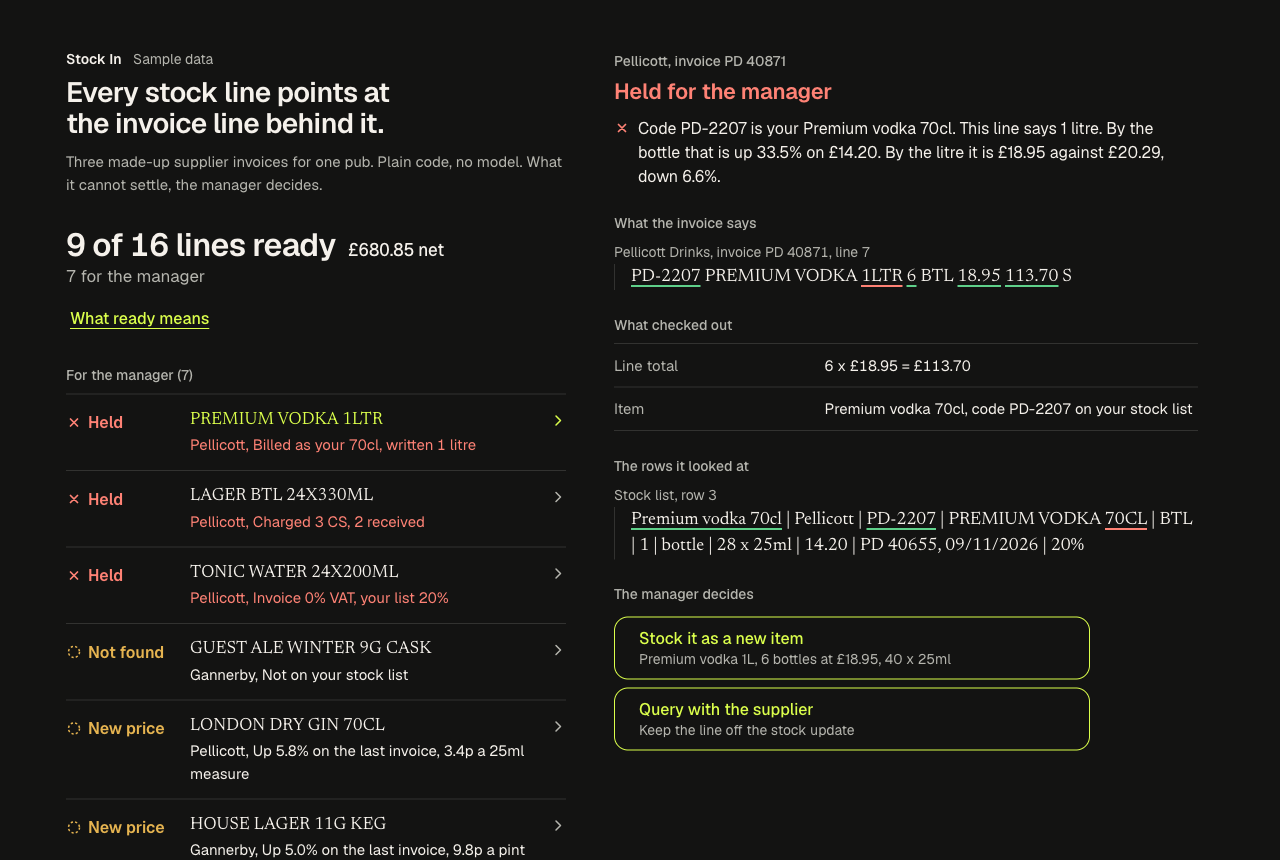
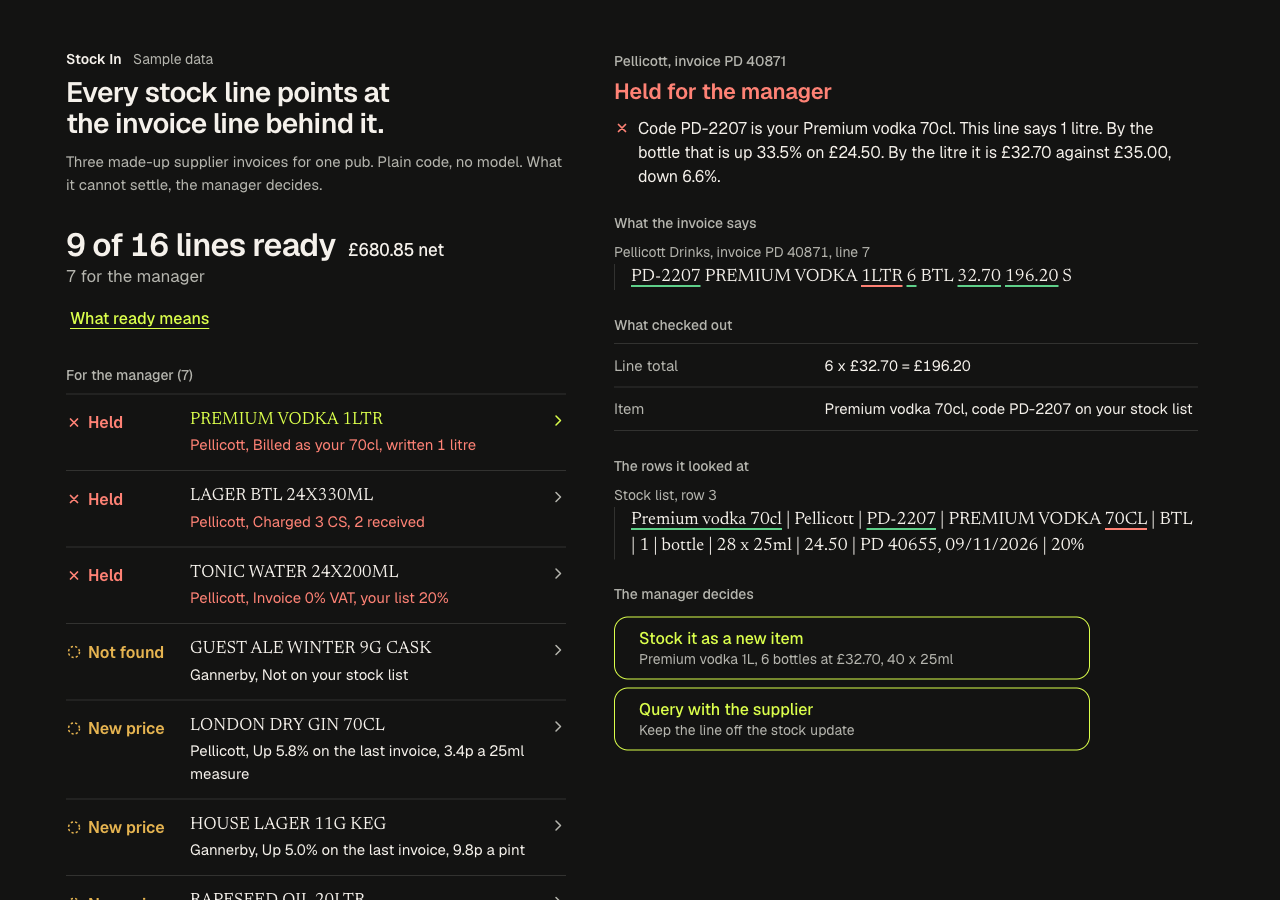
Apply review: size changes on casks, drums and cases use their own unit and beer is compared per pint, premium vodka repriced with the same percentages, VAT the other way round reads right, re-shot

diff --git a/check.test.js b/check.test.js
@@ -29,14 +29,14 @@ test("every ready line: quantity times price is the line total, and the price is
 test("each invoice's printed totals match its own lines", () => {
   const r = checkAll(sample);
   for (const t of r.totals) assert.ok(t.ok, t.inv.number);
-  assert.deepEqual(r.totals.map((t) => t.want.total), [57936, 95184, 22773]);
-  // 454.80 at 20% is 90.96; 793.20 is 158.64; 13.90 is 2.78
-  assert.deepEqual(r.totals.map((t) => t.want.vatS), [9096, 15864, 278]);
+  assert.deepEqual(r.totals.map((t) => t.want.total), [67836, 95184, 22773]);
+  // 537.30 at 20% is 107.46; 793.20 is 158.64; 13.90 is 2.78
+  assert.deepEqual(r.totals.map((t) => t.want.vatS), [10746, 15864, 278]);
 });
 
 test("a printed total that does not add up fails", () => {
   const s = clone();
-  s.inv1[s.inv1.length - 1] = "Total due 579.46";
+  s.inv1[s.inv1.length - 1] = "Total due 678.46";
   const t = checkTotals(readInvoice("inv1", s.inv1));
   assert.equal(t.ok, false);
   assert.equal(t.rows.find((x) => x.key === "total").match, false);
@@ -93,9 +93,9 @@ test("a code for the 70cl bottle on a line that says 1 litre is held, with per-b
   const v = byCode(r, "PD-2207");
   assert.equal(v.kind, "size");
   assert.equal(v.state, "fail");
-  assert.match(v.why, /up 33\.5% on £14\.20/); // 18.95 / 14.20 = 1.3345
-  assert.match(v.why, /£18\.95 against £20\.29, down 6\.6%/); // 14.20 / 0.7 = 20.29 a litre
-  assert.equal(v.perLitre.was, 2029);
+  assert.match(v.why, /up 33\.5% on £24\.50/); // 32.70 / 24.50 = 1.3347
+  assert.match(v.why, /£32\.70 against £35\.00, down 6\.6%/); // 24.50 / 0.7 = 35.00 a litre
+  assert.equal(v.perLitre.was, 3500);
 });
 
 test("VAT coded zero on an item your list has at 20% is held, with the VAT at stake", () => {
@@ -142,8 +142,8 @@ test("the manager's picks settle held lines and are recorded", () => {
   const vodka = r.lines.find((l) => l.n === 3);
   assert.equal(vodka.item.isNew, true);
   assert.equal(vodka.item.measure.count, 40);
-  // 680.85 + 103.50 + 113.70 + 33.60 + 52.80 + 98.00 + 36.50
-  assert.equal(r.value, 68085 + 10350 + 11370 + 3360 + 5280 + 9800 + 3650);
+  // 680.85 + 103.50 + 196.20 + 33.60 + 52.80 + 98.00 + 36.50
+  assert.equal(r.value, 68085 + 10350 + 19620 + 3360 + 5280 + 9800 + 3650);
   for (const n of [2, 3, 5, 6, 10, 12]) assert.ok(r.lines.find((l) => l.n === n).settled, `line ${n}`);
   const csv = stockCsv(r);
   assert.match(csv, /New cost accepted by the manager/);
@@ -230,4 +230,16 @@ test("the export lists only ready lines and adds up", () => {
   assert.equal(rows.length, 9);
   const net = rows.reduce((t, row) => t + pence(row.split(",").at(-2)), 0);
   assert.equal(net, 68085);
+});
+
+test("a size change on a cask is shown per cask and per pint, never per bottle", () => {
+  const [l] = checkPasted("GB-B09 BEST BITTER 18G CASK 1 CASK 190.00 190.00 S", sample);
+  assert.match(l.why, /By the cask that is up 97\.9% on £96\.00\. By the pint it is £1\.32 against £1\.33, down 1\.0%\./);
+  assert.match(l.options[0].note, /1 cask at £190\.00/);
+  assert.doesNotMatch(l.why + l.options[0].note, /bottle/);
+});
+
+test("VAT charged on an item your list has at 0% says what the invoice charges", () => {
+  const [l] = checkPasted("FF-11850 MATURE CHEDDAR 5KG 1 EA 34.75 34.75 S", sample);
+  assert.match(l.why, /At 0% there is no VAT on this line, and the invoice charges £6\.95\./);
 });

diff --git a/check.js b/check.js
@@ -332,12 +332,14 @@ export function checkLine(L, ctx, pick = null) {
     r.srcRefs.push(...onList.words.map((w) => ({ doc: "stock", line: row.line, start: row.cell[3].start + w.start, end: row.cell[3].start + w.end, tone: "fail" })));
     let money = "";
     if (conflict.includes("volume") && onLine.ml && onList.ml && !onLine.pack && row.pack === 1) {
-      const perL = (p, ml) => (p * 1000) / ml;
+      const beer = /KEG|CASK/.test(row.buys);
+      const per = beer ? "pint" : "litre";
+      const perL = (p, ml) => (p * (beer ? ML_PER_PINT : 1000)) / ml;
       const was = perL(row.last, onList.ml);
       const now = perL(L.price, onLine.ml);
       const byBottle = pct(L.price, row.last);
       const byLitre = pct(now, was);
-      money = ` By the bottle that is ${byBottle >= 0 ? "up" : "down"} ${pct1(byBottle)} on ${gbp(row.last)}. By the litre it is ${gbp(Math.round(now))} against ${gbp(Math.round(was))}, ${byLitre >= 0 ? "up" : "down"} ${pct1(byLitre)}.`;
+      money = ` By the ${unitWord(row)} that is ${byBottle >= 0 ? "up" : "down"} ${pct1(byBottle)} on ${gbp(row.last)}. By the ${per} it is ${gbp(Math.round(now))} against ${gbp(Math.round(was))}, ${byLitre >= 0 ? "up" : "down"} ${pct1(byLitre)}.`;
       r.perLitre = { was: Math.round(was), now: Math.round(now), byBottle, byLitre };
     }
     const shortTxt = conflict.includes("volume") && r.perLitre ? `Billed as your ${sizeWords(onList)}, written ${sizeWords(onLine)}` : `Size on the line is not the size on your list`;
@@ -347,7 +349,7 @@ export function checkLine(L, ctx, pick = null) {
       `Code ${row.code} is your ${row.name}. This line says ${sizeWords(onLine)}.${money}`,
       shortTxt,
       [
-        { pick: { size: "new" }, label: `Stock it as a new item`, note: `${titleCase(L.desc)}, ${plural(L.qty, "bottle")} at ${gbp(L.price)}${onLine.ml && row.measure && /ml measure/.test(row.measure.label) ? `, ${Math.floor(onLine.ml / Number(row.measure.label.slice(0, 2)))} x ${row.measure.label.slice(0, 4)}` : ""}` },
+        { pick: { size: "new" }, label: `Stock it as a new item`, note: `${titleCase(L.desc)}, ${plural(L.qty, unitWord(row))} at ${gbp(L.price)}${onLine.ml && row.measure && /ml measure/.test(row.measure.label) ? `, ${Math.floor(onLine.ml / Number(row.measure.label.slice(0, 2)))} x ${row.measure.label.slice(0, 4)}` : ""}` },
         { pick: { size: "query" }, label: "Query with the supplier", note: "Keep the line off the stock update" },
       ],
     );
@@ -392,7 +394,7 @@ export function checkLine(L, ctx, pick = null) {
       return hold(
         "fail",
         "vat",
-        `The invoice codes this ${L.vat}, ${VAT[L.vat]}% VAT. Your list has ${row.vat}% for ${row.name}. At ${row.vat}% the VAT on this line is ${gbp(Math.abs(at20))}, and the invoice ${at20 > 0 ? "charges none" : "charges more"}.`,
+        `The invoice codes this ${L.vat}, ${VAT[L.vat]}% VAT. Your list has ${row.vat}% for ${row.name}. ${at20 > 0 ? `At ${row.vat}% the VAT on this line is ${gbp(at20)}, and the invoice charges none.` : `At ${row.vat}% there is no VAT on this line, and the invoice charges ${gbp(-at20)}.`}`,
         `Invoice ${VAT[L.vat]}% VAT, your list ${row.vat}%`,
         [
           { pick: { vat: "stock" }, label: "Stock it, flag the VAT for accounts", note: `Stock cost is the net ${gbp(L.net)} either way` },

diff --git a/samples.js b/samples.js
@@ -10,14 +10,14 @@ export const sample = {
     "Code Description Qty Unit Price Net VAT",
     "PD-1102 HOUSE VODKA 70CL 6 BTL 13.40 80.40 S",
     "PD-1140 LONDON DRY GIN 70CL 6 BTL 17.25 103.50 S",
-    "PD-2207 PREMIUM VODKA 1LTR 6 BTL 18.95 113.70 S",
+    "PD-2207 PREMIUM VODKA 1LTR 6 BTL 32.70 196.20 S",
     "PD-3310 HOUSE WHITE 6X75CL 2 CS 39.00 78.00 S",
     "PD-5021 TONIC WATER 24X200ML 2 CS 16.80 33.60 Z",
     "PD-5502 LAGER BTL 24X330ML 3 CS 26.40 79.20 S",
-    "Net at 20% (S) 454.80",
-    "VAT at 20% 90.96",
+    "Net at 20% (S) 537.30",
+    "VAT at 20% 107.46",
     "Net at 0% (Z) 33.60",
-    "Total due 579.36",
+    "Total due 678.36",
   ],
   inv2: [
     "GANNERBY BREWING",
@@ -52,7 +52,7 @@ export const sample = {
     "Item | Supplier | Code | Supplier description | Buys as | Pack | Counts in | Measure | Last cost | Last invoice | VAT",
     "House vodka 70cl | Pellicott | PD-1102 | HOUSE VODKA 70CL | BTL | 1 | bottle | 28 x 25ml | 13.40 | PD 40655, 09/11/2026 | 20%",
     "London dry gin 70cl | Pellicott | PD-1140 | LONDON DRY GIN 70CL | BTL | 1 | bottle | 28 x 25ml | 16.30 | PD 40655, 09/11/2026 | 20%",
-    "Premium vodka 70cl | Pellicott | PD-2207 | PREMIUM VODKA 70CL | BTL | 1 | bottle | 28 x 25ml | 14.20 | PD 40655, 09/11/2026 | 20%",
+    "Premium vodka 70cl | Pellicott | PD-2207 | PREMIUM VODKA 70CL | BTL | 1 | bottle | 28 x 25ml | 24.50 | PD 40655, 09/11/2026 | 20%",
     "House white 75cl | Pellicott | PD-3310 | HOUSE WHITE 6X75CL | CS | 6 | bottle | | 39.00 | PD 40655, 09/11/2026 | 20%",
     "Tonic water 200ml | Pellicott | PD-5021 | TONIC WATER 24X200ML | CS | 24 | bottle | | 16.80 | PD 40655, 09/11/2026 | 20%",
     "Lager bottle 330ml | Pellicott | PD-5502 | LAGER BTL 24X330ML | CS | 24 | bottle | | 26.40 | PD 40655, 09/11/2026 | 20%",

diff --git a/README.md b/README.md
@@ -22,7 +22,7 @@ Each invoice's printed totals are also summed from its own lines: net at each ra
 
 The sample: 9 of 16 lines are ready, £680.85 net. Seven wait for the manager:
 
-- **Premium vodka:** the code is the 70cl bottle, the line says 1 litre. By the bottle that is up 33.5% on £14.20. By the litre it is £18.95 against £20.29, down 6.6%.
+- **Premium vodka:** the code is the 70cl bottle, the line says 1 litre. By the bottle that is up 33.5% on £24.50. By the litre it is £32.70 against £35.00, down 6.6%.
 - **Lager bottles:** charged for 3 cases, 2 received. One case short, £26.40 net, £31.68 with VAT.
 - **Tonic water:** coded Z, 0% VAT; the stock list has 20%. £6.72 of VAT at stake.
 - **Guest ale:** not on the stock list by code or description.
@@ -56,7 +56,7 @@ The proposal would then pass through the same checks, so a manager only opens th
 node --test
 ```
 
-Needs Node 20 or later. No dependencies. 20 tests cover the sample result, the arithmetic on every ready line, each invoice's printed totals (and a total that does not add up), cases into bottles, bags and each, imperial pints in kegs and casks, 25ml measures, the three new prices and their per-measure change, the 70cl code on a 1 litre line, the VAT mismatch, the short delivery, the item not found, the manager's picks and what they record, stocking all of a short line, that every reference points at the exact text it claims, reading sizes, reading lines, pasted lines (a wrong unit, no code, 50L against 11G, a bad sum, an unknown item, junk, zero, a repeat, no VAT code) and the export.
+Needs Node 20 or later. No dependencies. 22 tests cover the sample result, the arithmetic on every ready line, each invoice's printed totals (and a total that does not add up), cases into bottles, bags and each, imperial pints in kegs and casks, 25ml measures, the three new prices and their per-measure change, the 70cl code on a 1 litre line, the VAT mismatch, the short delivery, the item not found, the manager's picks and what they record, stocking all of a short line, that every reference points at the exact text it claims, reading sizes, reading lines, pasted lines (a wrong unit, no code, 50L against 11G, a bad sum, an unknown item, junk, zero, a repeat, no VAT code), a size change on a cask, VAT charged on a zero-rated item, and the export.
 
 ## Open the page locally
 
